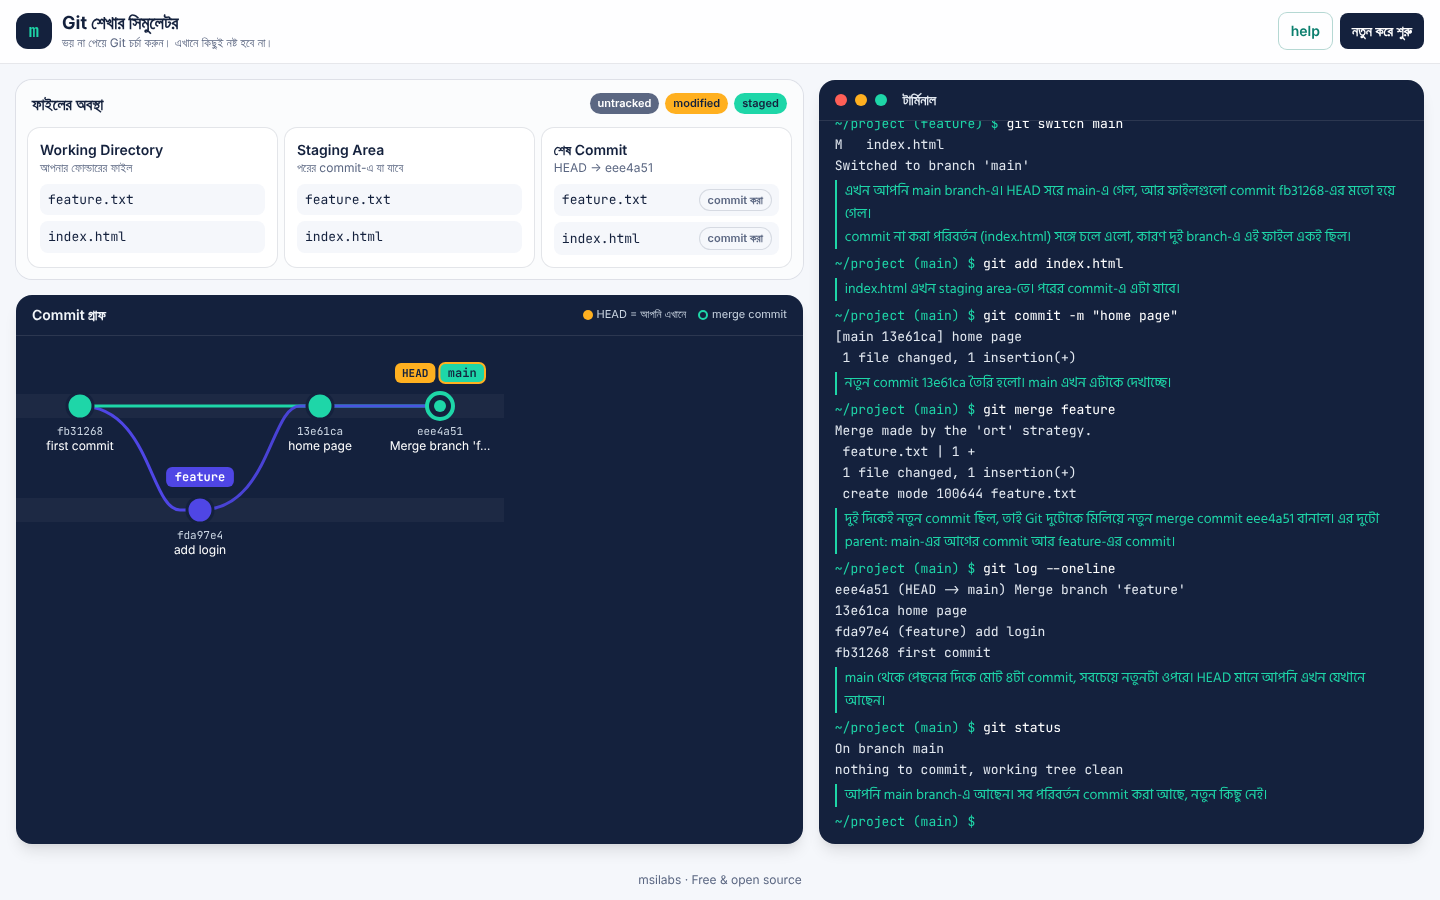
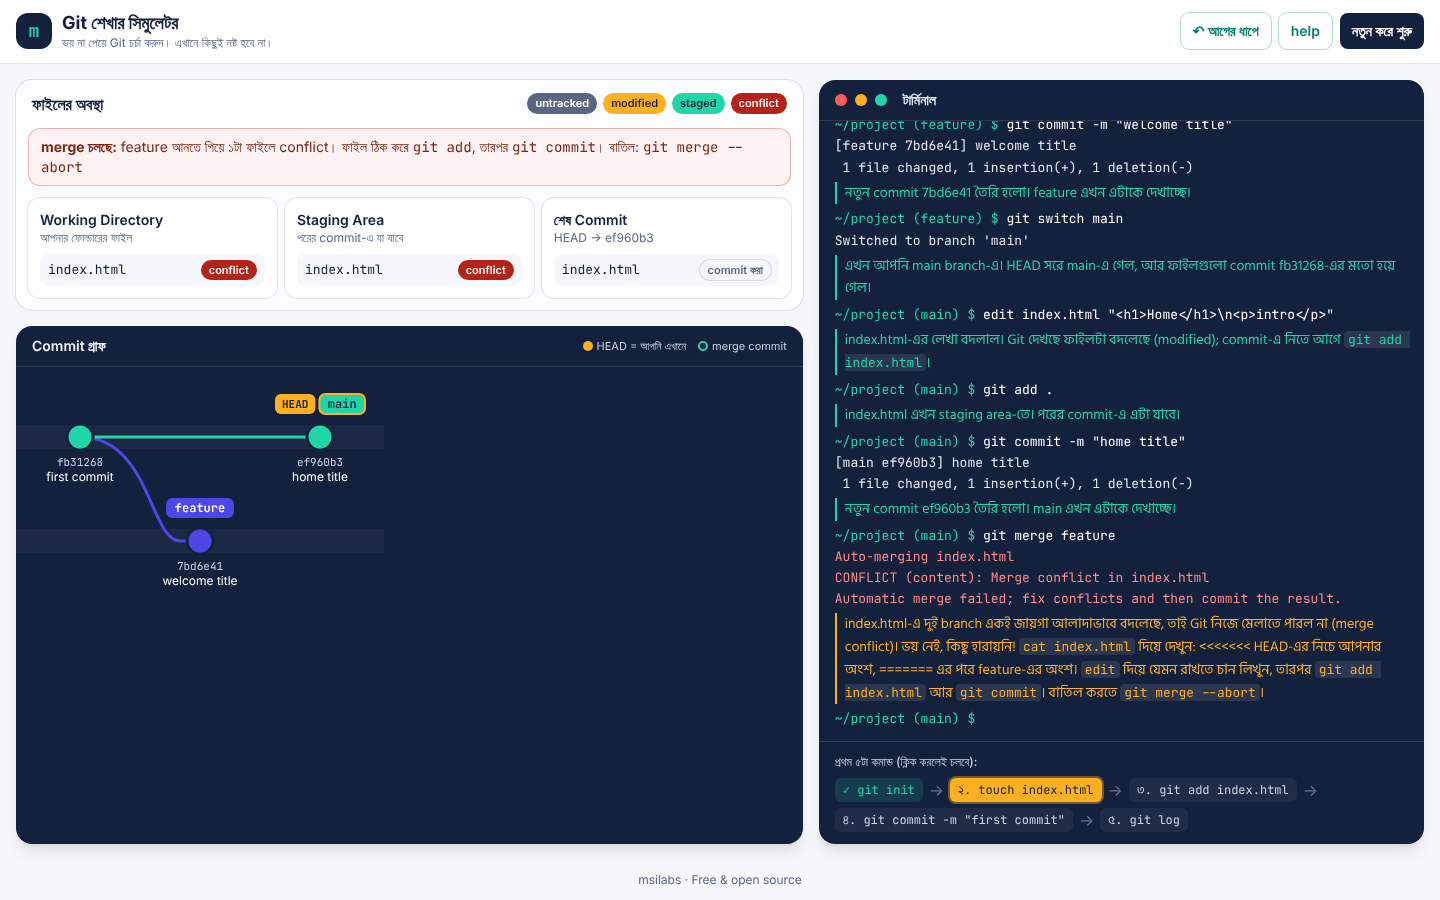
docs: add changelog, code of conduct, security policy and issue templates

diff --git a/CHANGELOG.md b/CHANGELOG.md
@@ -1,0 +1,34 @@
+# Changelog
+
+All notable changes to this project are documented here. The format follows [Keep a Changelog](https://keepachangelog.com/en/1.1.0/), and versions follow [Semantic Versioning](https://semver.org/).
+
+## [2.0.0] - 2026-11-04
+
+### Added
+- Merge conflicts: line-level three-way merge (diff3), Git-style conflict markers, "Unmerged paths" in `git status`, resolving with `git add` + `git commit`, `git merge --abort` and `git merge --continue`. Modify/delete and add/add conflicts are supported.
+- `git diff` and `git diff --staged` (`--cached`), with colored unified diff output.
+- `git restore <file>` and `git restore --staged <file>` (also `.` and `--worktree`).
+- `git branch -d` / `-D` and `git branch -m` / `-M`.
+- Simulator helper `rm <file>`.
+- "↶ undo" button that steps back one command at a time, saved across reloads.
+- Conflict badge and "merge in progress" banner in the file panel.
+- Static export and automatic GitHub Pages deployment.
+
+### Changed
+- Changing the same file on both branches no longer blocks the merge. Different lines merge automatically, and only overlapping changes cause a conflict.
+- Commits that no branch can reach (after `git branch -D`) are hidden from the graph.
+
+### Fixed
+- Bengali explanations containing inline code no longer break into columns.
+
+## [1.0.0] - 2026-11-04
+
+### Added
+- Pure TypeScript model of Git: `init`, `status`, `add`, `commit`, `log`, `branch`, `switch`, `checkout`, `merge` (fast-forward and merge commits).
+- Helpers: `touch`, `edit`, `ls`, `cat`, `help`, `clear`.
+- Fake terminal with history, file panel (working directory, staging area, last commit) and an SVG commit graph.
+- Bengali explanation after every command, plus clickable "first 5 commands" steps.
+- Progress saved in `localStorage`.
+
+[2.0.0]: https://github.com/msilabs/git-simulator/compare/5b5b80b...b2add6d
+[1.0.0]: https://github.com/msilabs/git-simulator/commit/5b5b80b

diff --git a/README.md b/README.md
@@ -1,12 +1,14 @@
 # Git Learning Simulator
 
+[![Deploy to GitHub Pages](https://github.com/msilabs/git-simulator/actions/workflows/pages.yml/badge.svg)](https://github.com/msilabs/git-simulator/actions/workflows/pages.yml) [![License: MIT](https://img.shields.io/badge/License-MIT-1ED6A8.svg)](LICENSE)
+
 A browser-based playground for learning Git without fear. Type Git commands into a fake terminal, watch the commit graph and file states update instantly, and read a short explanation in Bengali after every command.
 
 **Live:** https://msilabs.github.io/git-simulator/
 
 No real Git runs here. A small, pure TypeScript model of Git lives in `src/lib/git/`. There is no server, database or login, and your progress is saved in your browser's `localStorage`.
 
-![Screenshot of the simulator after a branch and merge](docs/screenshot.png)
+![Screenshot of the simulator during a merge conflict](docs/screenshot.png)
 
 ## Supported commands
 
@@ -96,6 +98,13 @@ State is immutable: every command returns a new `SimState`, so features like und
 4. Add `tests/<name>.test.ts`. When unsure, match real Git's behaviour and output. If you simplify, say so in a code comment.
 
 See [CONTRIBUTING.md](CONTRIBUTING.md) for details.
+
+## Community
+
+- [Changelog](CHANGELOG.md)
+- [Code of Conduct](CODE_OF_CONDUCT.md)
+- [Security policy](SECURITY.md)
+- Found a bug, a confusing Bengali explanation, or output that differs from real Git? [Open an issue](https://github.com/msilabs/git-simulator/issues/new/choose).
 
 ## বাংলায় সংক্ষেপে
 

diff --git a/CODE_OF_CONDUCT.md b/CODE_OF_CONDUCT.md
@@ -1,0 +1,23 @@
+# Code of Conduct
+
+This project exists to help new developers learn Git without fear. Please keep every interaction welcoming, especially toward beginners.
+
+## Our standards
+
+- Be kind and patient. No question is too basic here.
+- Give feedback about code and ideas, never about people.
+- Write in Bengali or English, whichever is easier for you.
+- Do not harass, insult or demean anyone, and do not post others' private information.
+- Do not post sexualized content, or attack anyone over gender, religion, ethnicity, disability or any other part of who they are.
+
+## Enforcement
+
+Maintainers may edit or remove comments, commits, issues and pull requests that break these rules, and may block repeat offenders.
+
+To report a problem, contact the maintainers privately (msisaif on GitHub) or open an issue if it is not sensitive. Reports are kept confidential.
+
+This code of conduct is adapted from the [Contributor Covenant](https://www.contributor-covenant.org/version/2/1/code_of_conduct/), version 2.1.
+
+## বাংলায় সংক্ষেপে
+
+এখানে সবাই শিখতে আসে। সবার সাথে ভদ্র আর ধৈর্যশীল থাকুন; কোনো প্রশ্নই "বোকা প্রশ্ন" নয়। মতামত দিন কাজ নিয়ে, মানুষ নিয়ে নয়। অপমান, হয়রানি বা কারো ব্যক্তিগত তথ্য প্রকাশ চলবে না।

diff --git a/SECURITY.md b/SECURITY.md
@@ -1,0 +1,22 @@
+# Security Policy
+
+## How the app handles data
+
+Git Learning Simulator is a fully static site. It has no server, database, login or analytics. Everything you type stays in your own browser (`localStorage`), and no real Git commands run.
+
+## Supported versions
+
+Only the latest version on `main` (the deployed site) receives fixes.
+
+## Reporting a vulnerability
+
+Please report security problems privately, not in a public issue:
+
+1. Open the repository's **Security** tab.
+2. Click **Report a vulnerability**.
+
+Please describe the issue, how to reproduce it, and its possible impact. We will reply as soon as we can.
+
+## বাংলায়
+
+নিরাপত্তার সমস্যা পেলে public issue না খুলে রিপোর **Security → Report a vulnerability** থেকে গোপনে জানান।

diff --git a/CONTRIBUTING.md b/CONTRIBUTING.md
@@ -2,6 +2,8 @@
 
 Thanks for helping new developers learn Git! Contributions of every size are welcome: Bengali wording fixes, bug reports, tests and new commands.
 
+Please follow the [Code of Conduct](CODE_OF_CONDUCT.md). Issues and pull requests may be written in Bengali or English.
+
 ## Setup
 
 ```bash
@@ -45,4 +47,5 @@ npm run build      # must pass before a PR
 ## Commits and pull requests
 
 - Small, focused commits with conventional prefixes, e.g. `feat: add git restore`, `fix: status for deleted files`, `docs: ...`.
-- Describe what changed and how you tested it in the PR.
+- Describe what changed and how you tested it in the PR (the PR template has a checklist).
+- Add a line to `CHANGELOG.md` under an "Unreleased" heading.

diff --git a/.github/pull_request_template.md b/.github/pull_request_template.md
@@ -1,0 +1,16 @@
+## What changed / কী বদলালেন
+
+## Why / কেন
+
+## How I tested / কীভাবে পরীক্ষা করলেন
+
+- [ ] `npm test`
+- [ ] `npm run lint`
+- [ ] `npm run build`
+- [ ] Tried it in the browser / ব্রাউজারে চালিয়ে দেখেছি
+
+## Checklist
+
+- [ ] Bengali text lives in `src/lib/git/messages.ts`
+- [ ] Simplifications versus real Git are noted in a `সরলীকরণ:` comment
+- [ ] New commands have tests in `tests/`
